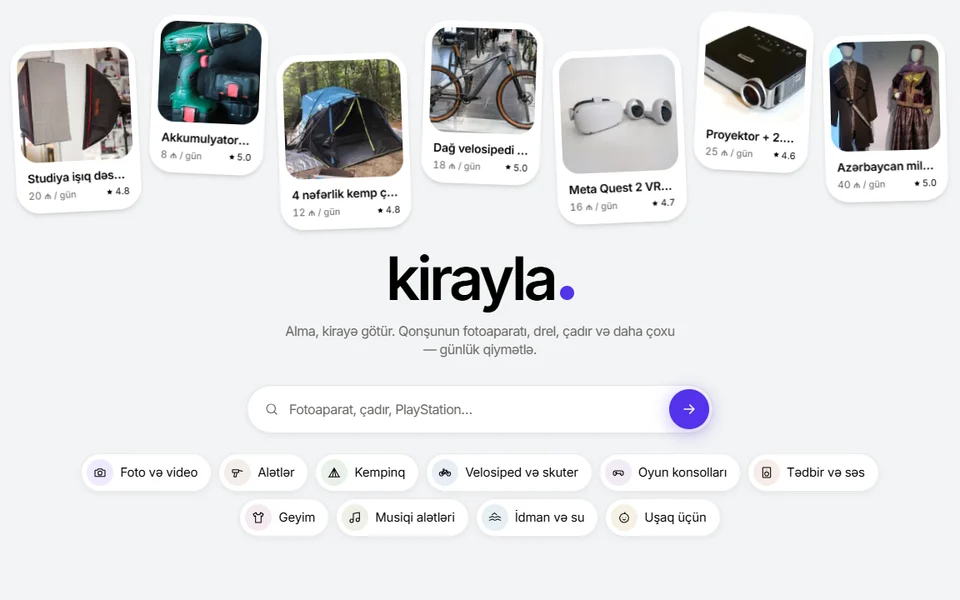
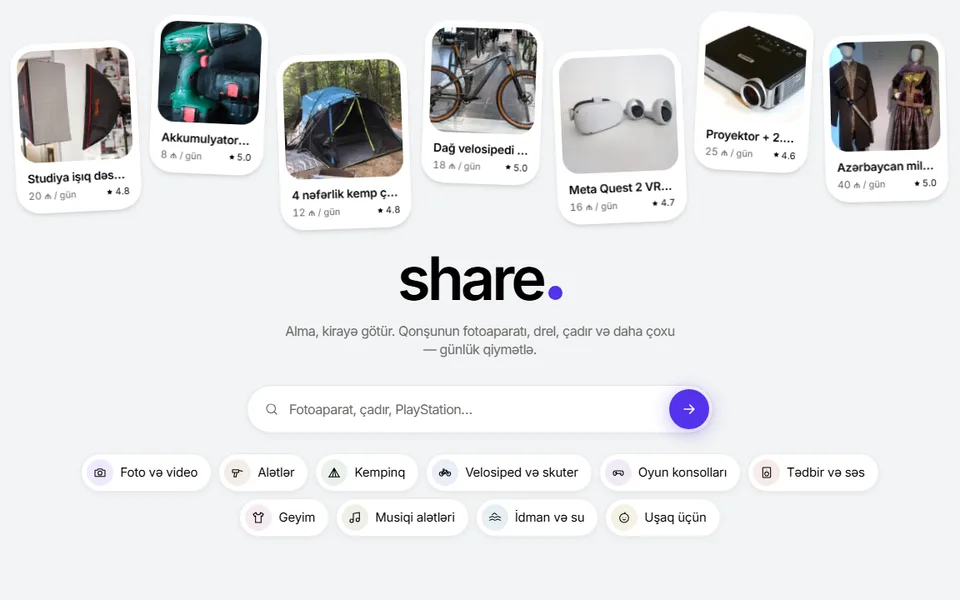
feat(work): Kirayla is now Share (title, demo links, repo key, thumbnail)
The rental marketplace was renamed Kirayla → Share; its repo becomes
codelady-ship/share-rental and the demo https://share-rental.vercel.app.

- upsert-projects.ts: the entry points at share-rental, title "Share",
  demoOverride https://share-rental.vercel.app/az; SHOWCASE lists share-rental
  and, until the old record is hidden, kirayla-rental
- showcase.ts: share-rental on the fallback belt list, its /en demo; the record
  still stored as kirayla-rental reads "Share" (TITLES) and keeps its old /en link
- project-conveyor.tsx: THUMBS/STACK for share-rental (same picture file),
  kirayla-rental kept until that record is hidden
- seed.ts: the admin's seed import uses the new repo, title and demo
- kirayla.webp: re-captured with the new logo, same 960x600 framing
  (1280x800 viewport, clip 96,72 1152x720, animations held at 2.5 s)

Changed region(s): [[0.4062, 0.42, 0.5938, 0.54]]

diff --git a/backend/scripts/upsert-projects.ts b/backend/scripts/upsert-projects.ts
@@ -50,7 +50,10 @@ export const SHOWCASE = [
   "ember-olive-menu", // Ember & Olive: React + Three.js + GSAP (Vite), Express + MongoDB
   "Food-Wagon-delivery-figma", // Food Wagon: React + TypeScript + Tailwind (Vite), Express + MongoDB
   // owner, 2026-11-21: her new project
-  "kirayla-rental", // Kirayla: Next.js + Spring Boot + PostgreSQL
+  "share-rental", // Share (formerly Kirayla): Next.js + Spring Boot + PostgreSQL
+  // the same project under its old repo name: keeps the belt right until the renamed record exists;
+  // hide the old record after the rename (--hide kirayla-rental)
+  "kirayla-rental",
   // owner, 2026-11-17: Programmers List (task7/task6) and this portfolio are off the belt
 ];
 
@@ -74,13 +77,14 @@ const ENTRIES: Entry[] = [
     // owner, 2026-11-21: on the belt. The live site is browse-only for now (the API is not deployed yet:
     // it shows the bundled snapshot of the seed), so no adminUrl / adminHint until the API is up. It can
     // be framed (its CSP frame-ancestors names the portfolio). English demo: /en (frontend lib/showcase.ts)
-    repo: "https://github.com/codelady-ship/kirayla-rental",
+    // owner, 2026-11-22: renamed Kirayla → Share (repo kirayla-rental → share-rental, demo share-rental.vercel.app)
+    repo: "https://github.com/codelady-ship/share-rental",
     patch: {
-      title: "Kirayla",
+      title: "Share",
       featured: true,
       hidden: false,
       order: 35,
-      demoOverride: "https://kirayla-rental.vercel.app/az",
+      demoOverride: "https://share-rental.vercel.app/az",
       summary: {
         az: "Bakı, Gəncə və Sumqayıt üçün əşya kirayəsi platforması: fotoaparat, drel, çadır və ya velosipedini günlük kirayəyə ver; kirayəçi tarix seçir, sahibi qəbul və ya rədd edir. Filtrli axtarış, boş günlər təqvimi, rəylər, mesajlaşma, elan sahibi və admin panelləri. Next.js + TypeScript frontend, Java 21 + Spring Boot və PostgreSQL API.",
         en: "A peer-to-peer rental marketplace for Baku, Ganja and Sumgait: list a camera, a drill, a tent or a bike by the day; renters pick dates and the owner accepts or declines. Search with filters, an availability calendar, reviews, messaging, and host and admin dashboards. A Next.js + TypeScript frontend with a Java 21 + Spring Boot + PostgreSQL API.",

diff --git a/frontend/src/lib/showcase.ts b/frontend/src/lib/showcase.ts
@@ -14,6 +14,8 @@ const SHOWCASE_FALLBACK = new Set(
    // owner, 2026-11-18: full stack now
    "ember-olive-menu", "food-wagon-delivery-figma",
    // owner, 2026-11-21: her new project
+   "share-rental",
+   // Share under its old repo name, until that record is hidden after the rename (owner, 2026-11-22)
    "kirayla-rental"].map((n) => n.toLowerCase()),
 );
 
@@ -28,11 +30,15 @@ export const onBelt = (p: Project) => !p.hidden && (p.fullStack ?? SHOWCASE_FALL
 const TITLES: Record<string, L10n> = {
   "my-quiz-app": { az: "Kod Sınağı", en: "Code Check" },
   "hello-fresh-with-react": { az: "HelloFresh klonu (təlim)", en: "HelloFresh clone (practice)" },
+  // renamed Kirayla → Share (owner, 2026-11-22): the record stored under the old repo name reads "Share" too
+  "kirayla-rental": { az: "Share", en: "Share" },
 };
 
 /** a demo in the visitor's language, where the project has one (Planera: its README links both) */
 const DEMOS: Record<string, Partial<L10n>> = {
   planera: { az: "https://planera-az.vercel.app" },
+  "share-rental": { en: "https://share-rental.vercel.app/en" },
+  // the old record keeps the address its stored /az demo has
   "kirayla-rental": { en: "https://kirayla-rental.vercel.app/en" },
 };
 

diff --git a/frontend/src/components/work/project-conveyor.tsx b/frontend/src/components/work/project-conveyor.tsx
@@ -29,6 +29,8 @@ const THUMBS: Record<string, string> = {
   // the hero of its home page (Playwright, 2026-11-21; owner: the card shows the main screen, not the login)
   jeparla: "/projects/jeparla.webp",
   // the first view of its live home page: the listing cards, the wordmark and the search (Playwright, 2026-11-21)
+  "share-rental": "/projects/kirayla.webp",
+  // the same project under its old repo name (renamed Kirayla → Share, 2026-11-22), until that record is hidden
   "kirayla-rental": "/projects/kirayla.webp",
 };
 /**
@@ -41,6 +43,7 @@ const STACK: Record<string, string[]> = {
   "food-wagon-delivery-figma": ["React", "TypeScript", "Tailwind CSS", "Vite", "Node.js", "Express", "MongoDB"],
   "ember-olive-menu": ["React", "TypeScript", "Three.js", "GSAP", "Vite", "Node.js", "Express", "MongoDB"],
   // no topics, and its languages alone read "TypeScript, Java, JavaScript"
+  "share-rental": ["Next.js", "TypeScript", "Tailwind CSS", "Java 21", "Spring Boot", "PostgreSQL", "Flyway", "JWT", "Playwright"],
   "kirayla-rental": ["Next.js", "TypeScript", "Tailwind CSS", "Java 21", "Spring Boot", "PostgreSQL", "Flyway", "JWT", "Playwright"],
 };
 

diff --git a/frontend/src/lib/seed.ts b/frontend/src/lib/seed.ts
@@ -79,7 +79,7 @@ export const SEED_REPOS: { url: string; featured?: boolean; backend?: string; ti
     demo: "https://codelady-ship.github.io/codelady-skills/az/",
     links: [],
   },
-  { url: "https://github.com/codelady-ship/kirayla-rental", featured: true, title: "Kirayla", demo: "https://kirayla-rental.vercel.app/az" },
+  { url: "https://github.com/codelady-ship/share-rental", featured: true, title: "Share", demo: "https://share-rental.vercel.app/az" },
   { url: "https://github.com/codelady-ship/planera", featured: true, title: "Planera — Randevum", demo: "https://randevum-seven.vercel.app" },
   { url: "https://github.com/codelady-ship/Ecommerse-app", featured: true, title: "HUELINE", demo: "https://codelady-ship.github.io/Ecommerse-app/", thumb: false },
   { url: "https://github.com/codelady-ship/My-Quiz-App", featured: true, title: "Code Check", demo: "https://codelady-ship.github.io/My-Quiz-App/" },
